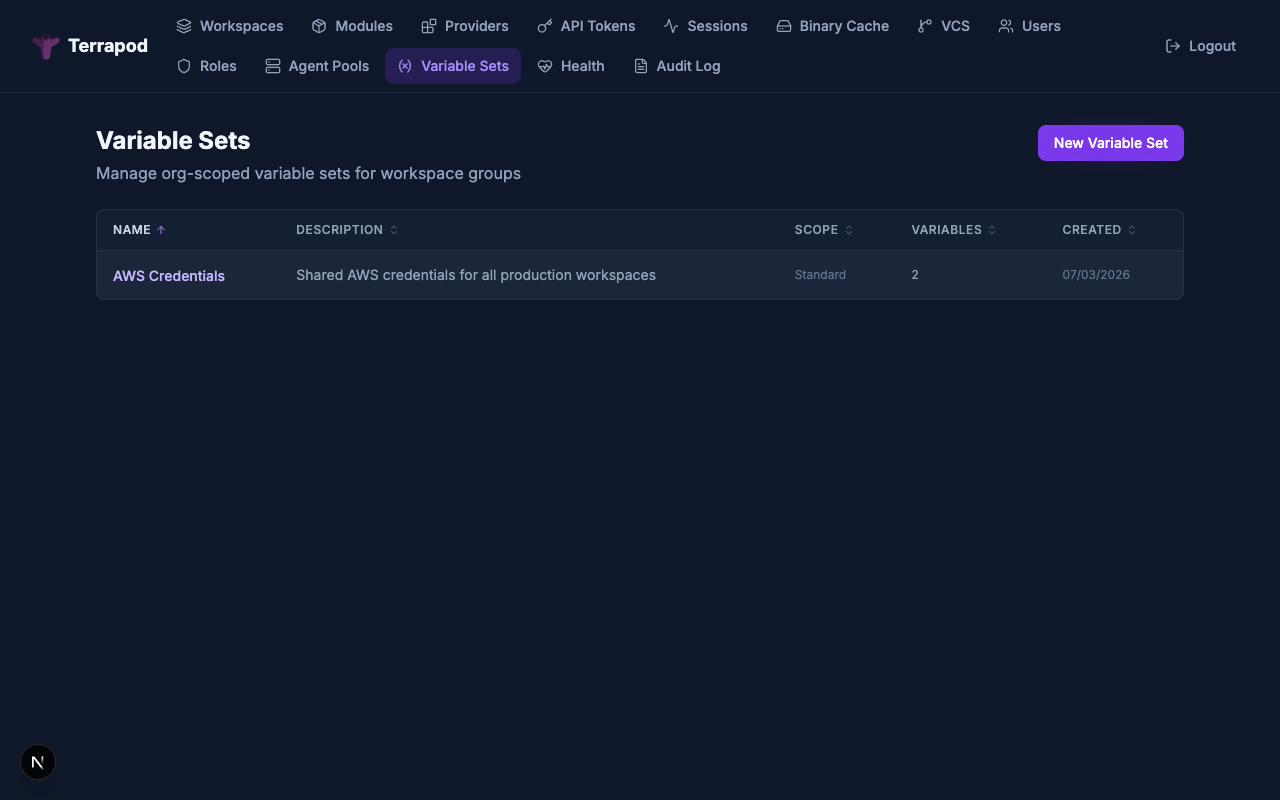
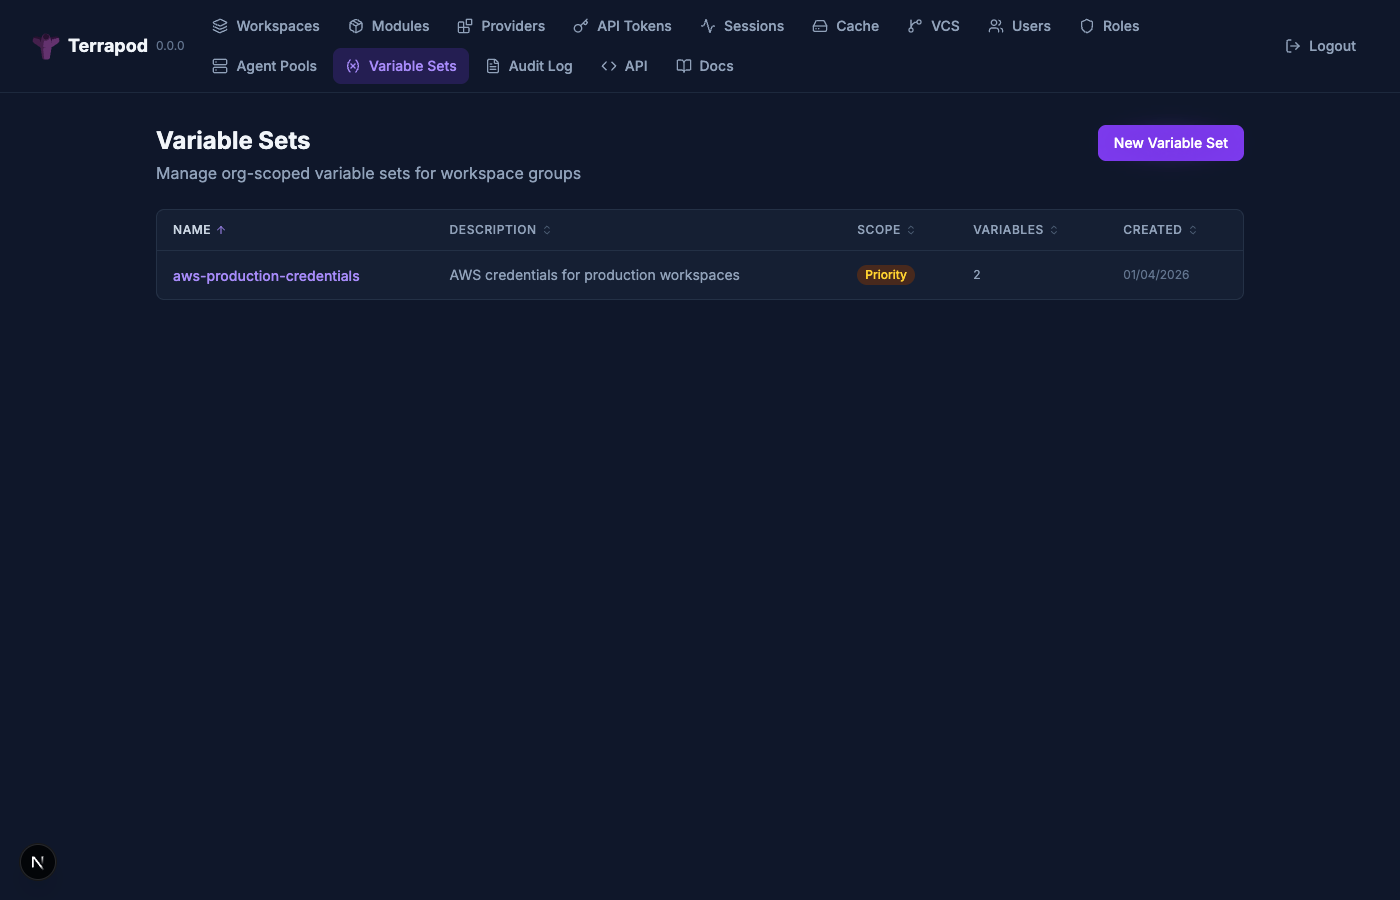
docs: refresh screenshots, update marketing text, remove Health Dashboard
- Retake all 20 screenshots with current UI (no Health nav link) and
  professional demo workspace names
- Delete Health Dashboard page (docs/health-dashboard.md) and its
  screenshot (admin-health.png), removed in v0.13.0
- Remove all Health Dashboard references from deployment.md,
  drift-detection.md, audit-logging.md, api-reference.md,
  architecture.md, and index.md
- Update README: add tagline, replace Health Dashboard feature row with
  Workspace Health, refresh screenshot gallery, strengthen comparison
  section, remove health-dashboard doc link

diff --git a/README.md b/README.md
@@ -11,6 +11,8 @@ Terrapod is **not** a fork of Terraform or OpenTofu. It orchestrates them.
 
 ![Workspaces](docs/images/workspaces.png)
 
+> **Drop-in replacement for HCP Terraform.** Point your existing `cloud` blocks, `go-tfe` clients, and CI/CD pipelines at Terrapod — zero code changes required.
+
 ---
 
 ## Key Features
@@ -35,7 +37,7 @@ Terrapod is **not** a fork of Terraform or OpenTofu. It orchestrates them.
 | Run Triggers | Implemented | Cross-workspace dependency chains — source apply triggers downstream runs |
 | Notifications | Implemented | Webhook (HMAC-SHA512), Slack (Block Kit), and email alerts on run events |
 | Run Tasks | Implemented | Pre/post-plan webhook hooks for external validation |
-| Health Dashboard | Implemented | Workspace health scores, drift status, staleness metrics |
+| Workspace Health | Implemented | Per-workspace health conditions, VCS polling status, drift detection indicators |
 | Cloud Credentials | Implemented | Dynamic provider credentials via K8s workload identity (AWS IRSA, GCP WIF, Azure WI) |
 
 ### Screenshots
@@ -53,15 +55,15 @@ Terrapod is **not** a fork of Terraform or OpenTofu. It orchestrates them.
 </details>
 
 <details>
-<summary>Health dashboard with drift status and workspace staleness</summary>
+<summary>Variables with sensitive masking and HCL support</summary>
 
-![Health Dashboard](docs/images/admin-health.png)
+![Variables](docs/images/workspace-variables.png)
 </details>
 
 <details>
-<summary>Audit log with filtering and pagination</summary>
+<summary>Agent pools with listener health monitoring</summary>
 
-![Audit Log](docs/images/admin-audit-log.png)
+![Agent Pools](docs/images/admin-agent-pools.png)
 </details>
 
 ---
@@ -252,7 +254,6 @@ See [docs/authentication.md](docs/authentication.md) for setup guides.
 | [Notifications](docs/notifications.md) | Webhook, Slack, and email alerts on run events |
 | [Run Tasks](docs/run-tasks.md) | Pre/post-plan webhook hooks for external validation |
 | [Audit Logging](docs/audit-logging.md) | Immutable event log, query API, retention |
-| [Health Dashboard](docs/health-dashboard.md) | Workspace health, drift status, run metrics |
 | [Cloud Credentials](docs/cloud-credentials.md) | AWS IRSA, GCP WIF, Azure WI setup |
 | [Monitoring](docs/monitoring.md) | Prometheus metrics, scraping, recommended alerts |
 | [Disaster Recovery](docs/disaster-recovery.md) | Break-glass state recovery from object storage |
@@ -327,6 +328,8 @@ Reports are written to `reports/pentest/`. See [SECURITY.md](SECURITY.md) for th
 | [Digger](https://digger.dev/) | CI-native Terraform orchestration | Runs inside CI; no standalone platform |
 | [Terrateam](https://terrateam.io/) | GitHub-integrated TF automation | GitHub-coupled; limited community edition |
 | [Spacelift](https://spacelift.io/) | Commercial TF management platform | Not open source |
+
+Terrapod is the only open-source project that covers the full TFE surface: state management, remote execution, private registry, RBAC, VCS integration, drift detection, and a production-grade UI -- all in a single self-hosted Kubernetes deployment.
 
 Terrapod is a single, self-hosted platform covering the full TFE surface (state + runs + registry + governance + UI + API) under a copyleft (GPLv3) license.
 

diff --git a/docs/api-reference.md b/docs/api-reference.md
@@ -1389,87 +1389,6 @@ DELETE /api/v2/admin/binary-cache/{tool}/{version}
 
 ---
 
-## Health Dashboard
-
-```
-GET /api/v2/admin/health-dashboard
-```
-
-Returns platform-wide health data including workspace status summaries, recent run statistics, and listener availability. Intended for admin dashboards and monitoring integrations.
-
-**Required permission:** Platform `admin` or `audit`.
-
-**Response:**
-```json
-{
-  "data": {
-    "id": "health-dashboard",
-    "type": "health-dashboards",
-    "attributes": {
-      "workspaces": {
-        "total": 42,
-        "locked": 2,
-        "drift-enabled": 15,
-        "by-drift-status": {
-          "unchecked": 5,
-          "no-drift": 30,
-          "drifted": 5,
-          "errored": 2
-        },
-        "stale": [{"id": "ws-uuid", "name": "prod-infra", "last-applied-at": "...", "days-since-apply": 18, "drift-status": "drifted"}]
-      },
-      "runs": {
-        "queued": 4,
-        "in-progress": 2,
-        "recent-24h": {
-          "total": 18,
-          "applied": 12,
-          "errored": 3,
-          "canceled": 1
-        },
-        "average-plan-duration-seconds": 45,
-        "average-apply-duration-seconds": 120
-      },
-      "listeners": {
-        "total": 3,
-        "online": 2,
-        "offline": 1,
-        "details": [{"id": "listener-uuid", "name": "pool-listener-pod", "pool-name": "default", "status": "online", "capacity": 5, "active-runs": 1, "last-heartbeat": "..."}]
-      }
-    }
-  }
-}
-```
-
-| Attribute | Description |
-|---|---|
-| `workspaces.total` | Total number of workspaces |
-| `workspaces.locked` | Workspaces currently locked |
-| `workspaces.drift-enabled` | Number of workspaces with drift detection enabled |
-| `workspaces.by-drift-status` | Breakdown of workspaces by drift status |
-| `workspaces.stale` | Top 20 workspaces by staleness (never-applied first) |
-| `runs.queued` | Runs currently in `queued` state |
-| `runs.in-progress` | Runs currently planning or applying |
-| `runs.recent-24h` | 24-hour breakdown (total, applied, errored, canceled) |
-| `runs.average-plan-duration-seconds` | Average plan duration (last 24h) |
-| `runs.average-apply-duration-seconds` | Average apply duration (last 24h) |
-| `listeners.total` | Total registered listeners |
-| `listeners.online` | Listeners with a recent heartbeat (within 180s) |
-| `listeners.offline` | Listeners with no recent heartbeat |
-| `listeners.details` | Per-listener status, pool, capacity, and active runs |
-
-### Health Dashboard Events (SSE)
-
-```
-GET /api/v2/admin/health-dashboard/events
-```
-
-Server-Sent Events stream for real-time admin health dashboard updates. The stream emits events whenever workspace or run health data changes.
-
-**Required permission:** Platform `admin` or `audit`.
-
----
-
 ## Agent Pool Events (SSE)
 
 ```

diff --git a/docs/deployment.md b/docs/deployment.md
@@ -954,12 +954,6 @@ api:
 
 Logs are written to stdout in JSON format, suitable for log aggregation (Fluentd, Loki, CloudWatch, etc.).
 
-### Health Dashboard
-
-The admin health dashboard endpoint (`GET /api/v2/admin/health-dashboard`) provides a single-request overview of platform health, including workspace drift status, recent run statistics, and listener availability. This is useful for integration with external monitoring dashboards (Grafana, Datadog, etc.) or custom alerting.
-
-Requires `admin` or `audit` role. See the [API Reference](api-reference.md#health-dashboard) for the full response schema.
-
 ### Prometheus Metrics
 
 When `api.config.metrics.enabled` is true (default), the API server exposes a `/metrics` endpoint in Prometheus exposition format. The listener also serves `/metrics` on its health port. See the [Metrics](#metrics) configuration reference for available metrics and ServiceMonitor/PodMonitor setup.
@@ -972,8 +966,8 @@ When `api.config.metrics.enabled` is true (default), the API server exposes a `/
 | API request rate | `terrapod_http_requests_total` (Prometheus) |
 | Listener active runs | `terrapod_listener_active_runs` (Prometheus) |
 | Listener heartbeat age | `terrapod_listener_heartbeat_age_seconds` (Prometheus) |
-| Run queue depth | Count runs in `queued` state via API or health dashboard |
-| Drift status | Health dashboard `workspaces.by-drift-status` |
+| Run queue depth | Count runs in `queued` state via API |
+| Drift status | Workspace list health summary cards |
 | Database connections | PostgreSQL `pg_stat_activity` |
 | Storage operations | Cloud provider metrics (S3/Blob/GCS) |
 | Job success/failure | Kubernetes Job status in runner namespace |

diff --git a/docs/index.md b/docs/index.md
@@ -28,7 +28,7 @@ Terrapod is **not** a fork of Terraform or OpenTofu. It orchestrates them.
 | **Notifications** | Webhook (HMAC-SHA512), Slack (Block Kit), and email alerts on run events |
 | **Run Tasks** | Pre/post-plan webhook hooks for external validation |
 | **Drift Detection** | Scheduled plan-only runs to detect out-of-band infrastructure changes |
-| **Health Dashboard** | Workspace health scores, drift status, run metrics, listener availability |
+| **Workspace Health** | Per-workspace health conditions with status indicators on workspace list |
 | **Cloud Credentials** | Dynamic provider credentials via Kubernetes workload identity (AWS IRSA, GCP WIF, Azure WI) |
 | **Binary Caching** | Pull-through cache for terraform/tofu CLI binaries |
 
@@ -86,7 +86,6 @@ See [Architecture](architecture.md) for the full breakdown.
 | [Run Tasks](run-tasks.md) | Pre/post-plan webhook hooks for external validation |
 | [Audit Logging](audit-logging.md) | Immutable event log, query API, retention |
 | [Artifact Retention](artifact-retention.md) | Automated cleanup of old state versions, run logs, cache entries |
-| [Health Dashboard](health-dashboard.md) | Workspace health, drift status, run metrics |
 | [Runners](runners.md) | Custom runner images, private registries, Job configuration |
 | [Cloud Credentials](cloud-credentials.md) | AWS IRSA, GCP WIF, Azure WI setup |
 | [Registry](registry.md) | Private module/provider registry, caching layers |

diff --git a/docs/drift-detection.md b/docs/drift-detection.md
@@ -131,13 +131,9 @@ When `drift_status` changes to `drifted`, a `run:drift_detected` notification tr
 
 ---
 
-## Health Dashboard
+## Workspace Health Conditions
 
-The [health dashboard](health-dashboard.md) aggregates drift status across all workspaces, showing:
-
-- Total workspaces with drift detection enabled
-- Breakdown by drift status (unchecked, no drift, drifted, errored)
-- Stale workspaces sorted by days since last apply
+Drift status is visible on the workspace overview tab as a health condition banner. The workspace list page aggregates health issues (including drift) into summary cards, showing at a glance how many workspaces have detected drift or other health concerns.
 
 ---
 
@@ -150,6 +146,5 @@ Drift detection uses the [distributed scheduler](architecture.md) — only one A
 ## See Also
 
 - [Notifications](notifications.md) — configure alerts for drift detection events
-- [Health Dashboard](health-dashboard.md) — view drift status across all workspaces
 - [Architecture](architecture.md) — scheduler and background task system
 - [API Reference](api-reference.md) — workspace API with drift detection fields

diff --git a/docs/architecture.md b/docs/architecture.md
@@ -100,7 +100,6 @@ High-priority pages that users watch actively use SSE for instant updates. The A
 | `tp:run_events:{ws_id}` | `GET /api/v2/workspaces/{id}/runs/events` | `useRunEvents` | Workspace detail page |
 | `tp:workspace_list_events` | `GET /api/v2/workspace-events` | `useWorkspaceListEvents` | Workspace list page |
 | `tp:pool_events:{pool_id}` | `GET /api/v2/agent-pools/{id}/events` | `usePoolEvents` | Agent pool detail page |
-| `tp:admin_events` | `GET /api/v2/admin/health-dashboard/events` | `useAdminEvents` | Health dashboard |
 | `tp:listener_events:{pool_id}` | `GET /api/v2/listeners/{id}/events` | (listener code) | Runner listeners |
 
 **Shared SSE engine (`use-sse.ts`):**

diff --git a/docs/audit-logging.md b/docs/audit-logging.md
@@ -131,5 +131,4 @@ The retention task uses the distributed scheduler — it runs exactly once per d
 ## See Also
 
 - [RBAC](rbac.md) — `admin` and `audit` roles
-- [Health Dashboard](health-dashboard.md) — operational overview
 - [API Reference](api-reference.md) — full endpoint documentation
